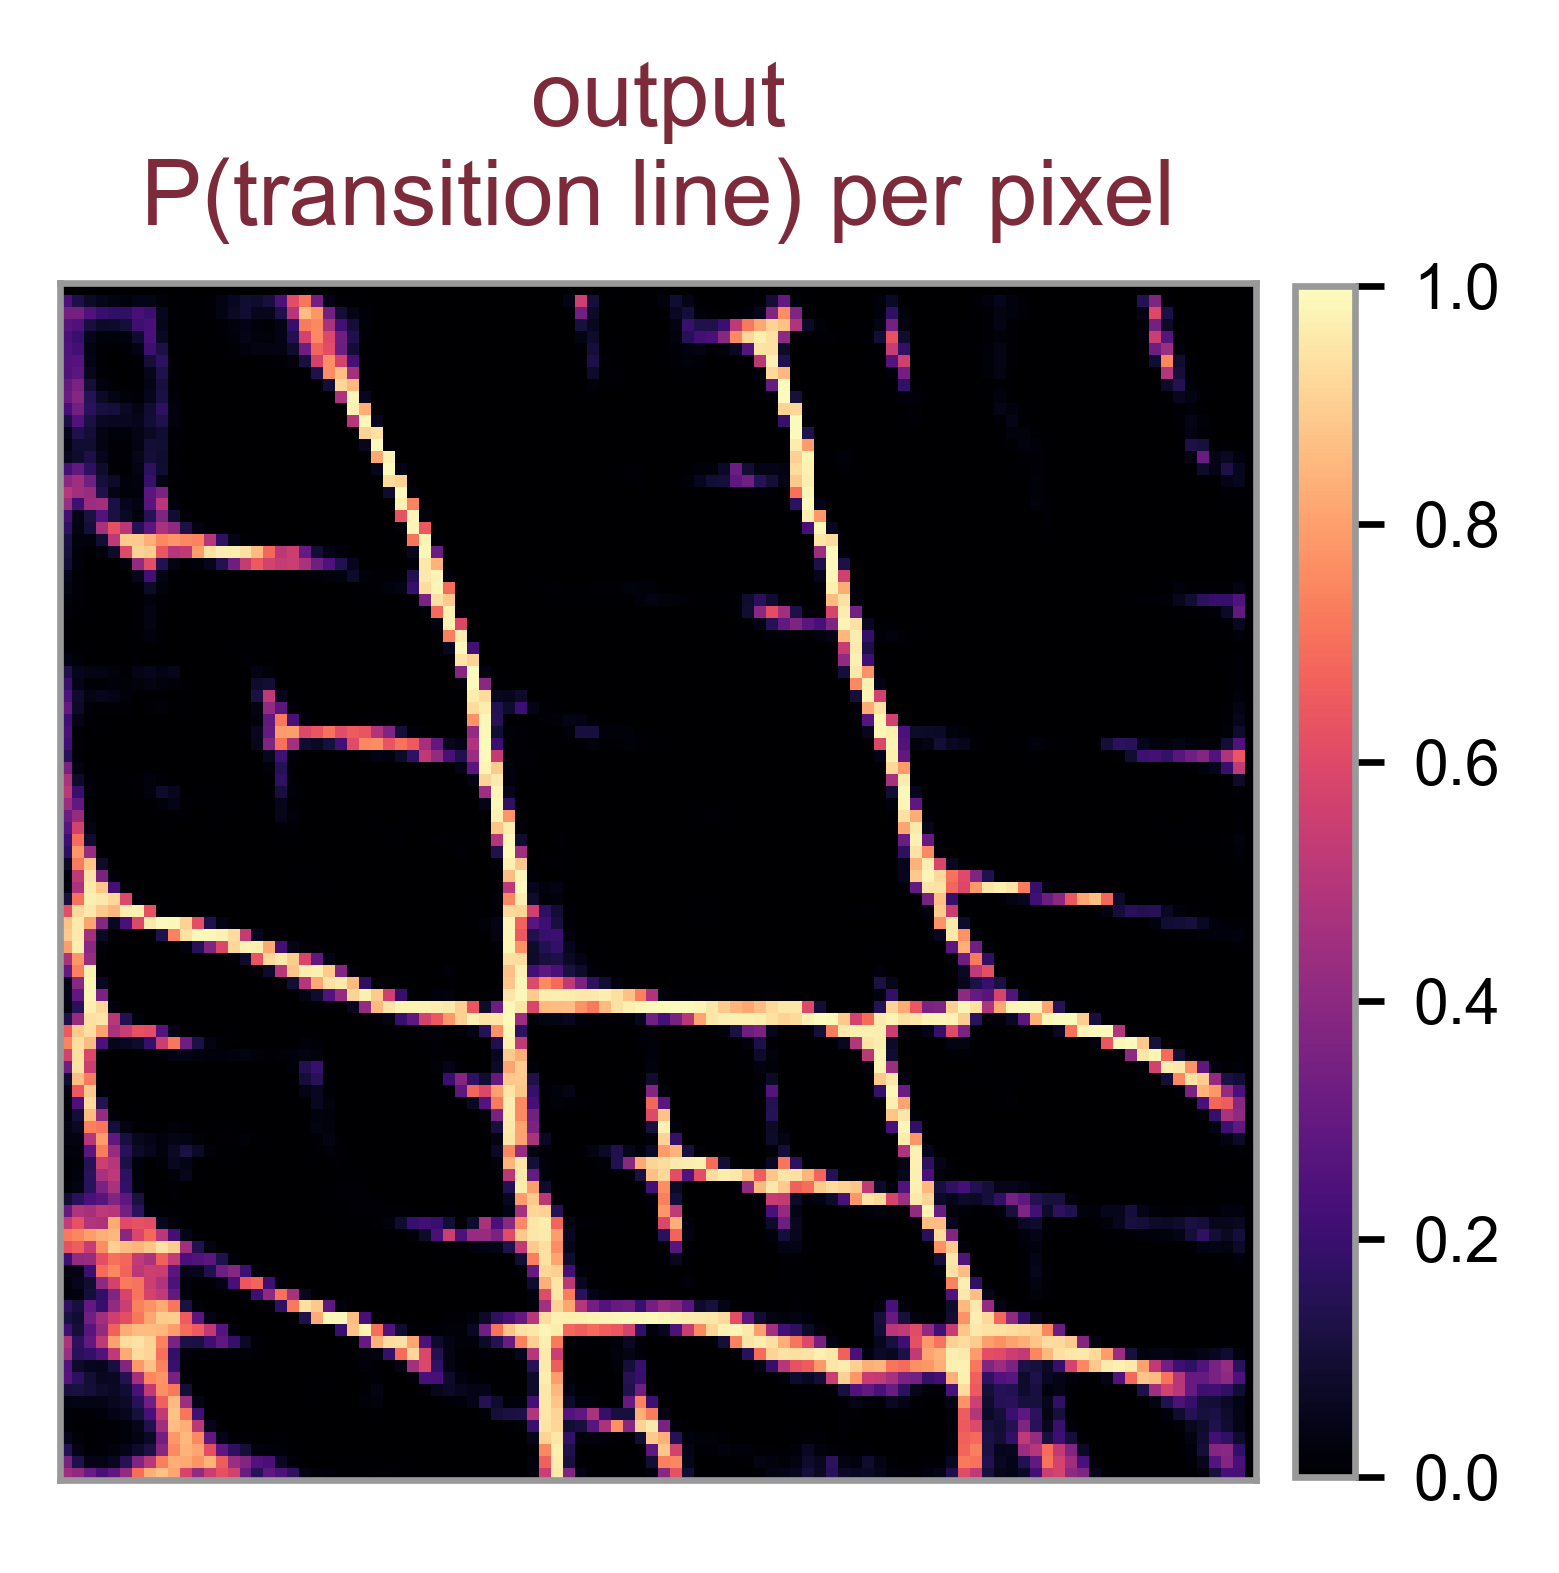
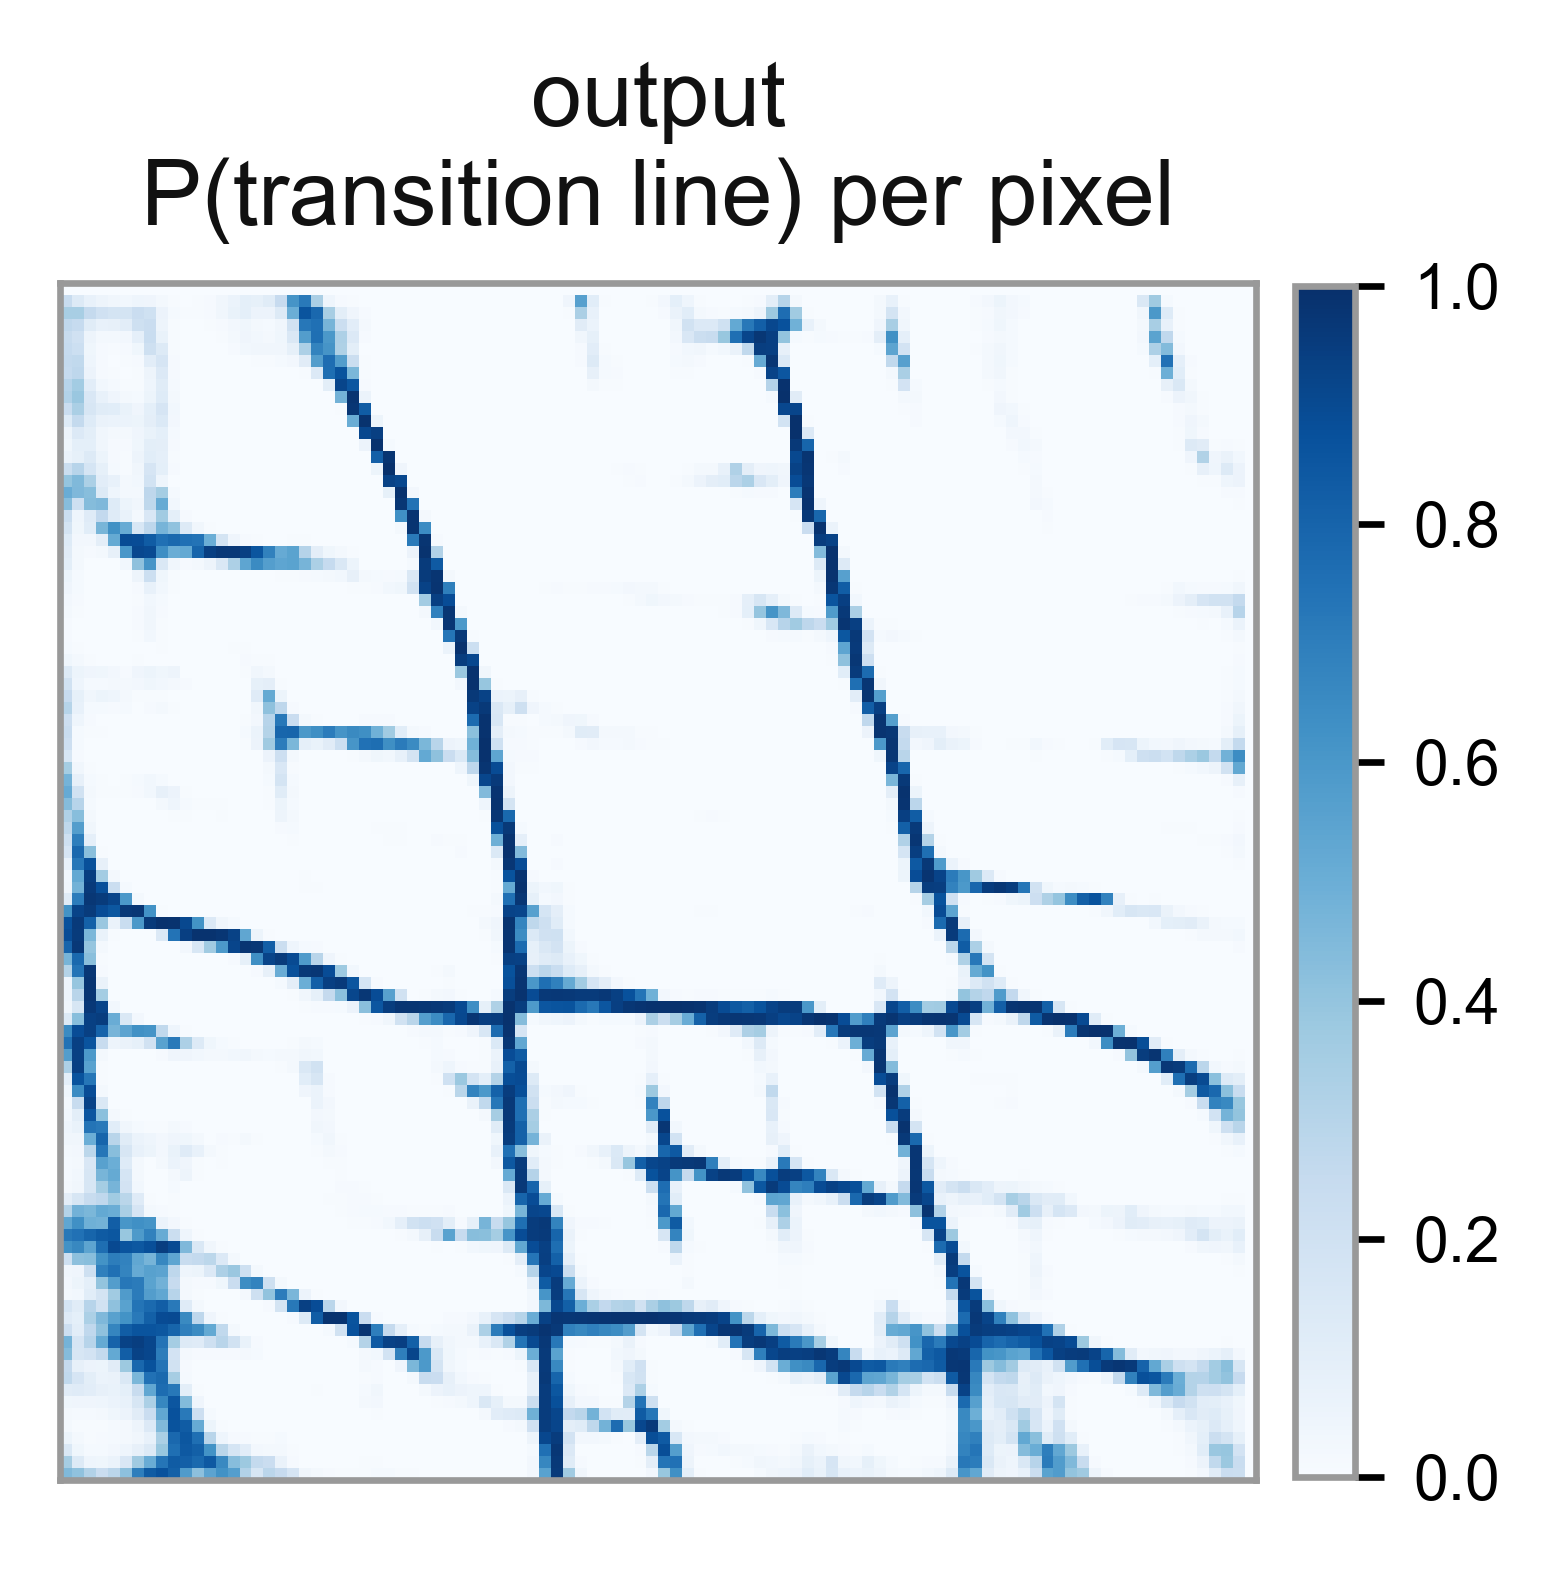
added some

diff --git a/paper_figures/make_figures.py b/paper_figures/make_figures.py
@@ -471,10 +471,10 @@ def fig_panels(device_index=RESULT_DEVICE):
                                vmin=0, vmax=1, interpolation="nearest"),
           f"channel 2\nvisited mask ({100 * vis.mean():.1f} % of the grid)",
           "panel_channel2")
-    panel(lambda ax: ax.imshow(prob, origin="lower", cmap="magma", vmin=0,
+    panel(lambda ax: ax.imshow(prob, origin="lower", cmap=J_CMAP, vmin=0,
                                vmax=1, interpolation="nearest"),
           "output\nP(transition line) per pixel", "panel_probability",
-          colour="#7d2b3a", cbar=True)
+          cbar=True)
 
 
 # ── figure 6: the charge sensor, raw and with its background removed ──────
@@ -566,6 +566,7 @@ if __name__ == "__main__":
     fig_unet()
     fig_probability_to_lines(RESULT_DEVICE)
     fig_probability_panels()
+    fig_results_f1_vs_coverage()
     fig_model_flow()
     fig_panels()
     fig_charge_sensor()
@@ -784,3 +785,67 @@ def fig_probability_panels(ladder=LADDER, taus=(0, 1, 3)):
     print("  F1:         " + "  ".join(f"{v:.3f}" for v in f1s))
     print("  precision:  " + "  ".join(f"{v:.3f}" for v in prs))
     print("  recall:     " + "  ".join(f"{v:.3f}" for v in rcs))
+
+
+# ── figure 9: the results chart for the slide ─────────────────────────────
+# The gallery version labels all fifteen points and the labels collide.  Here
+# the budgets are GROUPED BY RAY COUNT — one line each — so the reading
+# "more rays beats more points at the same coverage" is the shape of the
+# plot rather than something the caption has to assert.
+def fig_results_f1_vs_coverage():
+    import csv
+
+    with open(os.path.join(RUN_DIR, "comparison.csv"), newline="") as fh:
+        rows = list(csv.DictReader(fh))
+    by_rays = {}
+    for r in rows:
+        by_rays.setdefault(int(r["n_rays"]), []).append(
+            (100.0 * float(r["coverage"]), float(r["f1@1"]),
+             int(r["n_points"])))
+    for v in by_rays.values():
+        v.sort()
+
+    fig, ax = plt.subplots(figsize=(5.6, 3.7))
+    greys = {4: "#b4b4b4", 5: "#8e8e8e", 6: "#6a6a6a", 7: "#454545"}
+    for n in sorted(by_rays):
+        x = [c for c, _f, _p in by_rays[n]]
+        y = [f for _c, f, _p in by_rays[n]]
+        best = n == max(by_rays)
+        ax.plot(x, y, "-o", color=J_PRED if best else greys[n],
+                linewidth=2.0 if best else 1.2,
+                markersize=5.5 if best else 4.2, zorder=4 if best else 2,
+                label=f"{n} rays")
+
+    # the honest comparison: same coverage, more rays
+    ax.annotate("", xy=(2.33, 0.752), xytext=(2.35, 0.691),
+                arrowprops=dict(arrowstyle="-|>", color=J_TRUTH,
+                                linewidth=1.2, shrinkA=3, shrinkB=3))
+    ax.text(2.45, 0.719, "same coverage,\nmore rays", fontsize=8.5,
+            color=J_TRUTH, va="center")
+
+    ax.annotate("8 × 60\nF1 0.849 at 4.7 %", xy=(4.66, 0.849),
+                xytext=(3.95, 0.885), fontsize=9, color=J_PRED,
+                fontweight="bold", ha="center",
+                arrowprops=dict(arrowstyle="-", color=J_PRED, linewidth=0.9))
+
+    ax.set_xlabel("fraction of the grid measured  (%)", fontsize=10.5,
+                  color=INK)
+    ax.set_ylabel("F1 @ 1 px tolerance", fontsize=10.5, color=INK)
+    ax.set_xlim(1.2, 5.1)
+    ax.set_ylim(0.63, 0.91)
+    ax.tick_params(labelsize=9, colors=INK)
+    ax.grid(True, color=J_GRID, linewidth=0.5, linestyle=(0, (1, 3)),
+            alpha=0.85)
+    ax.set_axisbelow(True)
+    ax.legend(fontsize=8.5, frameon=False, loc="lower right",
+              handlelength=1.8, labelspacing=0.3, borderpad=0.2)
+    for sp in ("top", "right"):
+        ax.spines[sp].set_visible(False)
+    for sp in ("left", "bottom"):
+        ax.spines[sp].set_color("#444444"); ax.spines[sp].set_linewidth(0.8)
+    ax.set_title("Accuracy against measurement cost\n"
+                 "each line is one ray count; the three points on it are "
+                 "40, 50, 60 points per ray",
+                 fontsize=10.5, color=INK, pad=8, loc="left")
+    fig.tight_layout()
+    save(fig, "results_f1_vs_coverage")
